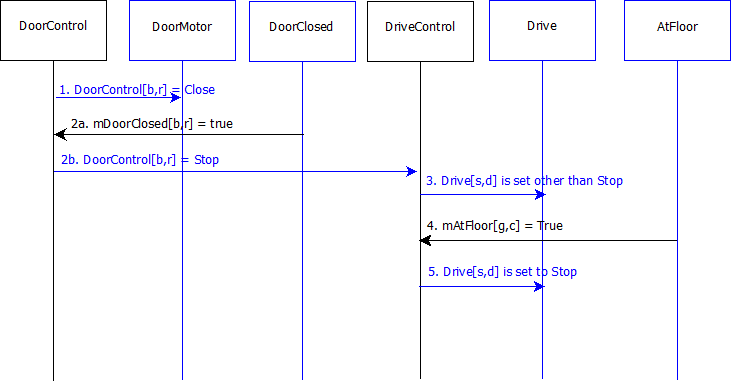
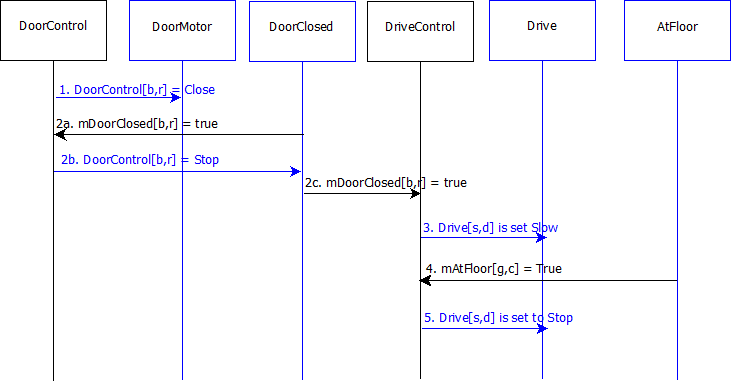
edit scen 8 and diagram according to review

diff --git a/scen_sd/scen_sd.html b/scen_sd/scen_sd.html
@@ -580,16 +580,17 @@
       <ol start="1" type="1">
         <li>Door[<b>b</b>,<b>r</b>] starts closing. </li>
         <li>Door[<b>b</b>,<b>r</b>] completes closing. </li>
-        <li>Drive() is set other than <b>Stop</b> for direction <b>d</b>.
+        <li>Drive() is set to <b>Slow</b> for direction <b>d</b>.
         </li>
         <li>Car starts moving towards floor <b>g</b>. </li>
-        <li>Car arrives at floor <b>g</b>.&nbsp;</li>
-        <li><font color="#ff0000">// better to add "drive is stopped".</font><br>
+        <li>Car arrives at floor <b>g</b>. </li>
+        <li>Drive() is set to <b>Stop</b> for diresction <b>Stop</b>.&nbsp;
         </li>
       </ol>
       <h3> Post-Conditions: </h3>
       <ul type="disc">
         <li>Elevator is at floor <b>g</b>. </li>
+        <li>Drive is <b>Stop</b>. </li>
         <li>All doors are closed. </li>
       </ul>
       <h3> Sequence Diagram: </h3>
